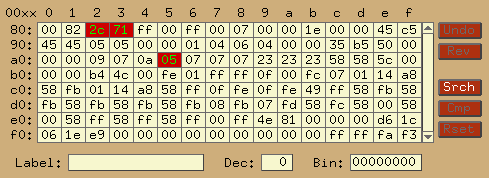
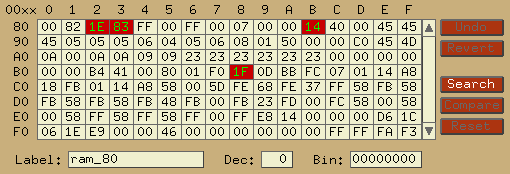
Preparation for 3.9 release, updated documentation.

diff --git a/docs/debugger.html b/docs/debugger.html
@@ -67,6 +67,10 @@ feature that no other 2600 debugger has; it's <b>completely</b> cross-platform.<
 	<li>Symbolic names in disassembly.</li>
 
 	<li>Symbolic names accepted as input.</li>
+
+	<li>Ability to generate DASM-compatible disassembly files (currently single-bank
+    only) with all the features mentioned above.</li>
+
 	<li>Tab completion for commands, symbol names and functions.</li>
 	<li>Graphical editor for RIOT and extended RAM. Acts a lot like a spreadsheet.
 		Input in hex, with displays for label/decimal/binary for
@@ -647,9 +651,9 @@ can also get rid of all traps at once with the "cleartraps" command.</p>
    listconfig - List Distella config directives [bank xx]
 listfunctions - List user-defined functions
     listtraps - List traps
-   loadconfig - Load Distella config file [from file xx]
+   loadconfig - Load Distella config file
     loadstate - Load emulator state xx (0-9)
-      loadsym - Load symbol file named xx
+      loadsym - Load symbol file
             n - Negative Flag: set (0 or 1), or toggle (no arg)
            pc - Set Program Counter to address xx
          pgfx - Mark 'PGFX' range in disassembly
@@ -665,8 +669,9 @@ listfunctions - List user-defined functions
       runtopc - Run until PC is set to value xx
             s - Set Stack Pointer to value xx
          save - Save breaks, watches, traps to file xx
-   saveconfig - Save Distella config file [to file xx]
-      saverom - Save (possibly patched) ROM to file xx
+   saveconfig - Save Distella config file
+      savedis - Save Distella disassembly
+      saverom - Save (possibly patched) ROM
       saveses - Save console session to file xx
     savestate - Save emulator state xx (valid args 0-9)
      scanline - Advance emulation by xx scanlines (default=1)
@@ -915,7 +920,7 @@ these cases, the values shown may not always be for RAM, and may point
 to ROM instead.  In the latter case, the data cannot be modified.</p>
 <p><img src="graphics/debugger_ram.png"></p>
 <p>The 'Undo' button in the upper right should be self-explanatory; it will
-undo the most previous operation to one cell only.  The 'Rev' button is
+undo the most previous operation to one cell only.  The 'Revert' button is
 more comprehensive.  It will undo <i>all</i> operations on <i>all</i> cells
 since you first made a change.</p>
 <p>The UI objects at the bottom refer to the currently selected RAM cell.
@@ -931,38 +936,37 @@ The remaining buttons to the right are further explained in section (L).</p>
 energy, but it's also very useful when debugging to determine which
 memory location holds which quantity.</p>
 <p><img src="graphics/debugger_ramsearch.png"></p>
-<p>To search RAM, click 'Srch' and enter a byte value into the search editbox (0-255).
+<p>To search RAM, click 'Search' and enter a byte value into the search editbox (0-255).
 All matching values will be highlighted in the RAM widget.  If 'Search' is clicked
 and the input is empty, all RAM locations are highlighted.</p>
 
-<p>The 'Cmp' button is used to compare the given value using all
+<p>The 'Compare' button is used to compare the given value using all
 addresses currently highlighted.  This may be an absolute number (such as 2),
 or a comparitive number (such as -1).  Using a '+' or '-' operator
 means 'search addresses for values that have changed by that amount'.</p>
-<p>The 'Rset' button resets the entire operation; it clears the highlighted
+<p>The 'Reset' button resets the entire operation; it clears the highlighted
 addresses and allows another search.</p>
 <p>The following is an example of inspecting all addresses that have
 decreased by 1:</p>
 <ul>
-	<li>Click 'Srch' with empty input.  All address/values are highlighted</li>
+	<li>Click 'Search' with empty input.  All address/values are highlighted</li>
 	<li>Exit debugger mode and lose a life, let your energy decrease, or
 		do whatever it is you're trying to debug</li>
-	<li>Enter debugger mode again, click 'Cmp' and and enter a '-1' for input.
+	<li>Enter debugger mode again, click 'Compare' and and enter a '-1' for input.
 		This finds all values that have decreased by 1 (as compared to their current
 		values)</li>
 	<li>Repeatedly following these steps may help to narrow number of
 		addresses under consideration, and eventually you'll find the
 		memory address you're looking for</li>
-	<li>Click 'Rset' when you're finished</li>
+	<li>Click 'Reset' when you're finished</li>
 </ul>
 
 
 <!-- /////////////////////////////////////////////////////////////////////////  -->
 <br>
-<h2><u>(M)</u> ROM Listing</h2>
-<p>The ROM Widget is a disassembly of the current bank of ROM. If a symbol
-file is loaded, the disassembly will have labels.  Even without a symbol file, the standard
-TIA/RIOT labels will still be present.</p>
+<h2><u>(M)</u> ROM Disassembly</h2>
+<p>This area contains a disassembly of the current bank of ROM. If a symbol
+file is loaded, the disassembly will have labels.  Even without a symbol file, the standard TIA/RIOT labels will still be present.</p>
 <p>The disassembly is often quite extensive, and whenever possible tries to automatically
 differentiate between code, graphics, data and unused bytes.  There are actually two
 levels of disassembly in Stella.  First, the emulation core tracks accesses as a game
@@ -981,26 +985,10 @@ a relative jump are in fact code, or simply data.</p>
 
 <p><img src="graphics/debugger_rom.png"></p>
 
-<p>The top area contains two items:
-<ul>
-<li><b>Current bank (x total)</b>: Shows the current bank in use (number in textbox),
-and the total number of banks (x).  Note that bank numbers start at 0 (as in most
-programming languages).  If the cartridge contains multiple banks, the bank can
-be changed in the bank textbox, and the ROM will be re-disassembled.
-Note that certain ROMs are quite complex, and may only show has having one
-'virtual' bank when their address space can be swapped in and out in many
-different ways.</li>
-<li><b>Resolve data</b>: Informs Distella about the 'resolvedata'
-commandline argument, which says how code and data sections are disassembled.
-If set to 'Never', the entire address space is treated as code.  If set to
-'Always', an attempt is always made to resolve data sections.
-The 'Automatic' setting is a combination of the previous two.  First, an
-attempt is made to resolve data sections.  If this results in the current program
-counter not being present in the disassembly, then a second disassembly is
-done, without resolving data sections.  Note that this option applies only to
-addresses determined by Distella; addresses marked as code or graphics by the
-emulation core will stay as such, no matter what this setting says.</li>
-</ul>
+<p>The <B>"Bank state"</B> is self-explanatory, and shows a summary of the current
+bank information.  For normal bankswitched ROMs, this will be the current bank number,
+however more advanced schemes will show other types of information here.  More detailed
+information is available in Detailed Bankswitch Information (N).</p>
 
 <p>Each line of disassembly has four fields:</p>
 <ul>
@@ -1045,8 +1033,8 @@ to 8 per line, and cannot be edited.</td></tr>
 
 
 <p>For code sections, the 6502 mnemonic will be UPPERCASE for all standard instructions,
-or lowercase for "illegal" 6502 instructions (like "dcp"). If resolving
-of data sections has been disabled for any reason, you'll likely see a lot
+or lowercase for "illegal" 6502 instructions (like "dcp"). If automatic resolving
+of code sections has been disabled for any reason, you'll likely see a lot
 of illegal opcodes if you scroll to a data table in ROM.  This can also
 occur if the disassembler hasn't yet encountered addresses in the PC.
 If you step/trace/scanline/frame advance into such an area, the disassembler
@@ -1073,41 +1061,38 @@ them. When you're done, press Enter to accept the changes (in which case
 the cart will be re-disasembled) or Escape to cancel them.
 Note that only instructions that have been fully disassembled
 can be edited.  In particular, blank lines or 'ROW' directives
-cannot be edited.  If you wish to edit the latter, then the 'Resolve data'
-item should be set to 'Never' first.  Also note that certain ROMs can have
+cannot be edited.  Also note that certain ROMs can have
 sections of address space swapped in and out dynamically.  As such, changing
 the contents of a certain address will change the area pointed to <b>at
 that time</b>.  In particular, modifying an address that points to internal
 RAM will change the RAM, not the underlying ROM.  A future release may 
 graphically differentiate between RAM and ROM areas.</p>
 
-<p>The ROM listing also contains a context menu, accessible by right-clicking
+<p>The ROM Disassembly also contains a Settings dialog, accessible by right-clicking
 anywhere in the listing:</p>
 <p><img src="graphics/debugger_romcmenu.png"></p>
 <p>The following options are available:</p>
 <ul>
-<li><b>Save ROM</b>: A textbox will appear for you to enter filename,
-and then the ROM will be saved. Note that the filename is considered
-relative to the <b>current</b> directory, not the ROM or base directory.
-You can enter a full path, though, in which case it doesn't matter.</li>
+<li><b>Set PC @ current line</b>: Set the Program Counter to the address of the
+disassembly line where the mouse was clicked (highlighted in green).</li>
 
-<li><b>Set PC</b>: Set the Program Counter to the address of the
-disassembly line where the mouse was clicked.</li>
-
-<li><b>RunTo PC</b>: Single-step through code until the Program Counter
-matches the address of the disassembly line where the mouse was clicked.</li>
-
-<li><b>Toggle PC addresses</b>: Show or hide blank labels as Program Counter
-addresses.</li>
-
-<li><b>Toggle GFX binary/hex</b>: Switch between editing GFX and PGFX sections
-in either hexidecimal or binary.</li>
-
-<li><b>Toggle address relocation</b>: Corresponds to the Distella '-r' option
-(Relocate calls out of address range).</li>
+<li><b>RunTo PC @ current line</b>: Single-step through code until the Program Counter
+matches the address of the disassembly line where the mouse was clicked (highlighted in green)</li>
 
 <li><b>Re-disassemble</b>: Self-explanatory; force the current bank to be
 disassembled, regardless of whether anything has changed.</li>
+
+<li><b>Show tentative code</b>: Allow Distella to do a static analysis/disassembly.</li>
+
+<li><b>Show PC addresses</b>: Show Program Counter addresses as labels (where there
+isn't already a defined label).</li>
+
+<li><b>Show GFX as binary</b>: Switch between displaying/editing GFX and PGFX sections
+in either binary or hexidecimal.</li>
+
+<li><b>Use address relocation</b>: Corresponds to the Distella '-r' option
+(Relocate calls out of address range).</li>
+
 </ul>
 
 <h3>Limitations</h3>
@@ -1140,6 +1125,22 @@ the same address.</li>
 
 <!-- /////////////////////////////////////////////////////////////////////////  -->
 <br>
+<h2><u>(N)</u> Detailed Bankswitch Information</h2>
+
+<p>This area shows a detailed breakdown of the bankswitching scheme.  Since
+the bankswitch schemes can greatly vary in operation, this tab will be
+different for each scheme, but its specific functionality should be self-explanatory.
+An example of both 4K (non-bankswitched) and DPC (Pitfall II) is as follows:</p>
+
+<p><img src="graphics/debugger_banksimple.png"></p>
+<p><img src="graphics/debugger_bankcomplex.png"></p>
+
+<p>In many cases, quite a bit of the scheme functionality can be modified.
+Go ahead and try to change something!</p>
+
+
+<!-- /////////////////////////////////////////////////////////////////////////  -->
+<br>
 <h2>Global Buttons</h2>
 
 <p>There are also buttons on the right that always show up no matter which
@@ -1160,7 +1161,7 @@ anywhere in the GUI via the keyboard, with Alt-S, Alt-T, Alt-L, Alt-F and Alt-R.
 <!-- /////////////////////////////////////////////////////////////////////////  -->
 <br>
 <h2>Distella Configuration Files</h2>
-<p>As mentioned in ROM Listing (M), Stella supports the following directives:
+<p>As mentioned in ROM Disassembly (M), Stella supports the following directives:
 CODE/GFX/PGFX/DATA/ROW.  While the debugger will try to automatically mark address
 space with the appropriate directive, there are times when it will fail.  There are
 several options in this case:</p>
@@ -1231,7 +1232,7 @@ but it helps to know at least a little about 6502 programming.</p>
 	<li>Enter the debugger by pressing the ` (backquote) key. Don't get
 		killed before you do this, though.  You should still have all 5 lives.</li>
 
-	<li>In the RAM display, click the "Search" button (labelled 'Srch') and enter "5" for input.
+	<li>In the RAM display, click the "Search" button and enter "5" for input.
 		This searches RAM for your value and highlights all addresses that match
 		the input.  You should see two addresses highlighted: "00a5" and "00ba".
 		These are the only two addresses that currently have the value 5, so they're
@@ -1247,7 +1248,7 @@ but it helps to know at least a little about 6502 programming.</p>
 	<li>Get killed! Ram an enemy tank, or let him shoot you. Wait for
 		the explosion to finish. You will now have 4 lives.</li>
 
-	<li>Enter the debugger again.  Click the "Compare" button (labelled 'Cmp') in RAM widget and enter
+	<li>Enter the debugger again.  Click the "Compare" button in RAM widget and enter
 		a value of 4.  Now the RAM widget should only show one highlighted address:
 		"00ba".  What we did was search within our previous results (the ones that
 		were 5 before) for the new value 4. Address $00ba used to have the value 5,
@@ -1319,12 +1320,11 @@ but it helps to know at least a little about 6502 programming.</p>
 		will *still* see 3 lives: Success! We've hacked Battlezone to give us
 		infinite lives.</li>
 
-	<li>Save your work. In the prompt: "saverom bzhack.bin". You now
+	<li>Save your work. In the prompt: "saverom". You now
 		have your very own infinite-lives version of Battlezone. The file will
-		be saved in the current directory (NOT your ROM directory), so you might
+		be saved in your HOME directory (NOT your ROM directory), so you might
 		want to move it to your ROM directory if it isn't the current directory.
-		This can also be accomplished by right-clicking on the ROM widget and
-		selecting 'Save ROM'.</li>
+  </li>
 
 	<li>Test the new ROM: exit Stella, and re-run it. Open your ROM
 		(or give its name on the command line) and play the game. You can play

diff --git a/docs/index.html b/docs/index.html
@@ -10,7 +10,7 @@
   <br><br>
   <center><h2><b>A multi-platform Atari 2600 VCS emulator</b></h2></center>
 
-  <center><h4><b>Release 3.8.1</b></h4></center>
+  <center><h4><b>Release 3.9</b></h4></center>
   <br><br>
 
   <center><h2><b>User's Guide</b></h2></center>
@@ -54,7 +54,7 @@
 
   <br><br><br>
 
-  <center><b>February 1999 - March 2013</b></center>
+  <center><b>February 1999 - June 2013</b></center>
     <center><b>The Stella Team</b></center>
   <center><b><a href="http://stella.sourceforge.net">Stella Homepage</a></b></center>
 
@@ -288,8 +288,9 @@
       both TIA sprites and collisions for each object separately</li>
     <li>Full system state save/load functionality</li>
     <li>Cross-platform UI including a built-in ROM launcher frontend</li>
-    <li>Built-in extensive debugger, including static analysis with the Distella disassembler,
-      and dynamic analysis at runtime by tracking code/graphics/data sections</li>
+    <li>Built-in extensive debugger, including static analysis with the Distella disassembler
+      and dynamic analysis at runtime by tracking code/graphics/data sections, and 
+      generation of DASM-compatible disassembly files</li>
     <li>Emulation of CRT TV systems using <a href="http://slack.net/~ant/libs/ntsc.html">
       Blargg filtering</a>, including presets for several common TV outputs
       (composite, S-video, RGB, etc), and ability to fully customize
@@ -556,6 +557,7 @@
 
   <p>At this point, you may want to set the locations for snapshots and other
   external paths.  This is described in more detail in
+  <b>Advanced Configuration - <a href="#Snapshots">Snapshot Settings</a></b> and
   <b>Advanced Configuration - <a href="#ConfigPaths">Config Paths</a></b>.
   These settings are optional, and can be left at the defaults if you won't be using
   snapshots in the ROM launcher.</p>
@@ -1786,7 +1788,7 @@
       <td><pre>-tv_filter &lt;1 - 6&gt;</pre></td>
       <td>OpenGL mode only.  Blargg TV effects, 0 is disabled, next numbers in
         sequence represent presets for 'composite', 's-video', 'RGB', 'bad adjust',
-        and 'custom' modes'.</td>
+        and 'custom' modes.</td>
     </tr>
 
     <tr>
@@ -1945,12 +1947,6 @@
     </tr>
 
     <tr>
-      <td><pre>-clipvol &lt;1|0&gt;</pre></td>
-      <td>Enable volume clipping (eliminates popping).  Do not change
-        unless you experience sound issues.</td>
-    </tr>
-
-    <tr>
       <td><pre>-cheat &lt;code&gt;</pre></td>
       <td>Use the specified cheatcode (see Cheat section for description).</td>
     </tr>
@@ -2047,6 +2043,12 @@
     <tr>
       <td><pre>-snaploaddir &lt;path&gt;</pre></td>
       <td>The directory to load snapshot files from.</td>
+    </tr>
+
+    <tr>
+      <td><pre>-snapname &lt;int|rom&gt;</pre></td>
+      <td>When saving snapshots, use either the internal database name or
+          the actual ROM filename.</td>
     </tr>
 
     <tr>
@@ -2191,7 +2193,7 @@
     </tr>
 
     <tr>
-      <td><pre>-dis.resolvedata &lt;never|always|auto&gt;</pre></td>
+      <td><pre>-dis.resolve &lt;1|0&gt;</pre></td>
       <td>Try to differentiate between code vs. data sections in the
       disassembler.  See the Debugger section for more information.</td>
     </tr>
@@ -2465,7 +2467,7 @@
       <td valign="top">
         <table border="1" cellpadding="4">
           <tr><th>Item</th><th>Brief description</th><th>For more information,<br>see <a href="#CommandLine">CommandLine</a></th></tr>
-          <tr><td>Debugger Width/Height</td><td>self-explanatory (requires restart)</td><td>-debuggerres</td></tr>
+          <tr><td>Debugger Width/Height</td><td>self-explanatory (requires ROM reload)</td><td>-debuggerres</td></tr>
         </table>
       </td>
     </tr>
@@ -2486,6 +2488,26 @@
     </tr>
   </table>
   <br>
+  <a name="Snapshots"></a>
+  <p><b>Snapshot Settings</b> dialog:</p>
+  <table border="5" cellpadding="2" frame="box" rules="none">
+    <tr>
+      <td><img src="graphics/launcher_options_snapshots.png"></td>
+      <td>&nbsp;&nbsp;&nbsp;&nbsp;</td>
+      <td valign="top">
+        <table border="1" cellpadding="4">
+          <tr><th>Item</th><th>Brief description</th><th>For more information,<br>see <a href="#CommandLine">CommandLine</a></th></tr>
+          <tr><td>Save path</td><td>specifies where to save snapshots</td><td>-snapsavedir</td></tr>
+          <tr><td>Load path</td><td>specifies where to load snapshots</td><td>-snaploaddir</td></tr>
+          <tr><td>Save snapshots according to</td><td>specifies how to name saved snapshots</td><td>-snapname</td></tr>
+          <tr><td>Continuous snapshot interval</td><td>interval (in seconds) between snapshot</td><td>-ssinterval</td></tr>
+          <tr><td>Overwrite existing files</td><td>whether to overwrite old snapshots</td><td>-sssingle</td></tr>
+          <tr><td>Disable image filtering (1x mode)</td><td>save snapshot in 1x mode, without filtering</td><td>-ss1x</td></tr>
+        </table>
+      </td>
+    </tr>
+  </table>
+  <br>
   <a name="ConfigPaths"></a>
   <p><b>Config Paths</b> dialog:</p>
   <table border="5" cellpadding="2" frame="box" rules="none">
@@ -2496,16 +2518,11 @@
         <table border="1" cellpadding="4">
           <tr><th>Item</th><th>Brief description</th><th>For more information,<br>see <a href="#CommandLine">CommandLine</a></th></tr>
           <tr><td>Rom path</td><td>specifies location of ROM files</td><td>-romdir</td></tr>
-          <tr><td>Snapshot save path</td><td>specifies where to save snapshots</td><td>-snapsavedir</td></tr>
-          <tr><td>Snapshot load path</td><td>specifies where to load snapshots</td><td>-snaploaddir</td></tr>
           <tr><td>Cheat file</td><td>specifies location of cheatfile database</td><td>-cheatfile</td></tr>
           <tr><td>Palette file</td><td>specifies location of user palette</td><td>-palettefile</td></tr>
           <tr><td>Properties file </td><td>specifies location of external stella.pro database</td><td>-propsfile</td></tr>
           <tr><td>State path</td><td>specifies location of state files</td><td>-statedir</td></tr>
           <tr><td>NVRAM path</td><td>specifies location of NVRAM (flash/EEPROM) files</td><td>-nvramdir</td></tr>
-          <tr><td>Overwrite snapshots</td><td>whether to overwrite old snapshots</td><td>-sssingle</td></tr>
-          <tr><td>Snapshot in 1x mode</td><td>save snapshot in 1x mode, without filtering</td><td>-ss1x</td></tr>
-          <tr><td>Continuous snapshot interval</td><td>interval (in seconds) between snapshot</td><td>-ssinterval</td></tr>
         </table>
       </td>
     </tr>
